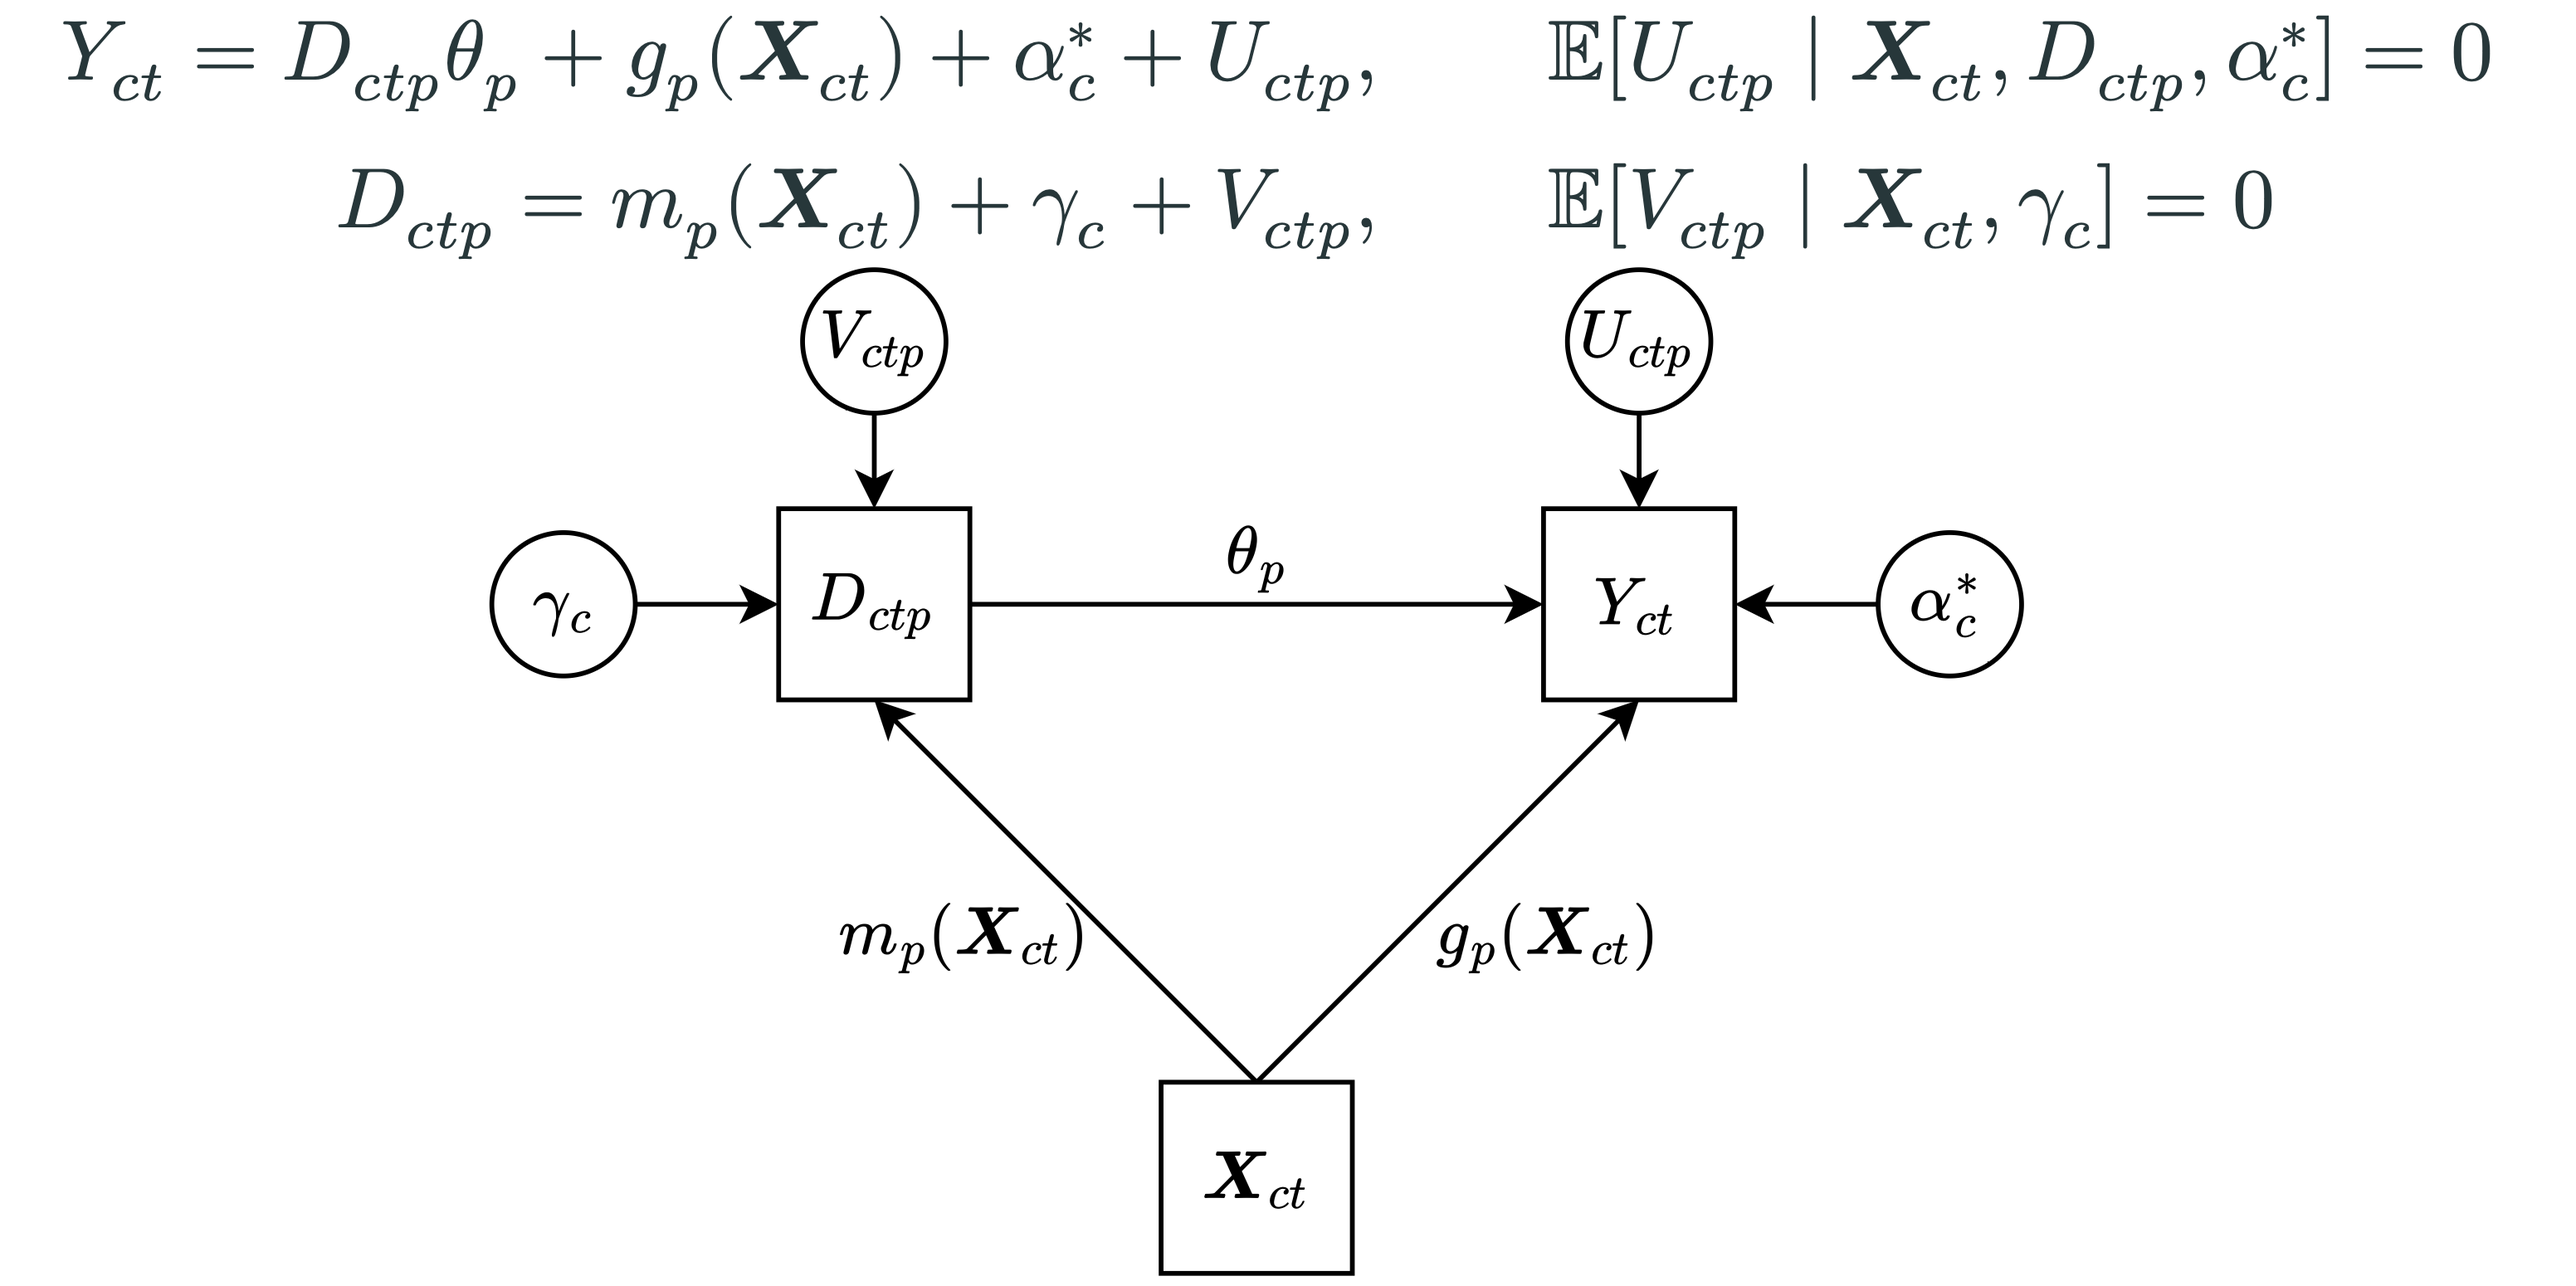
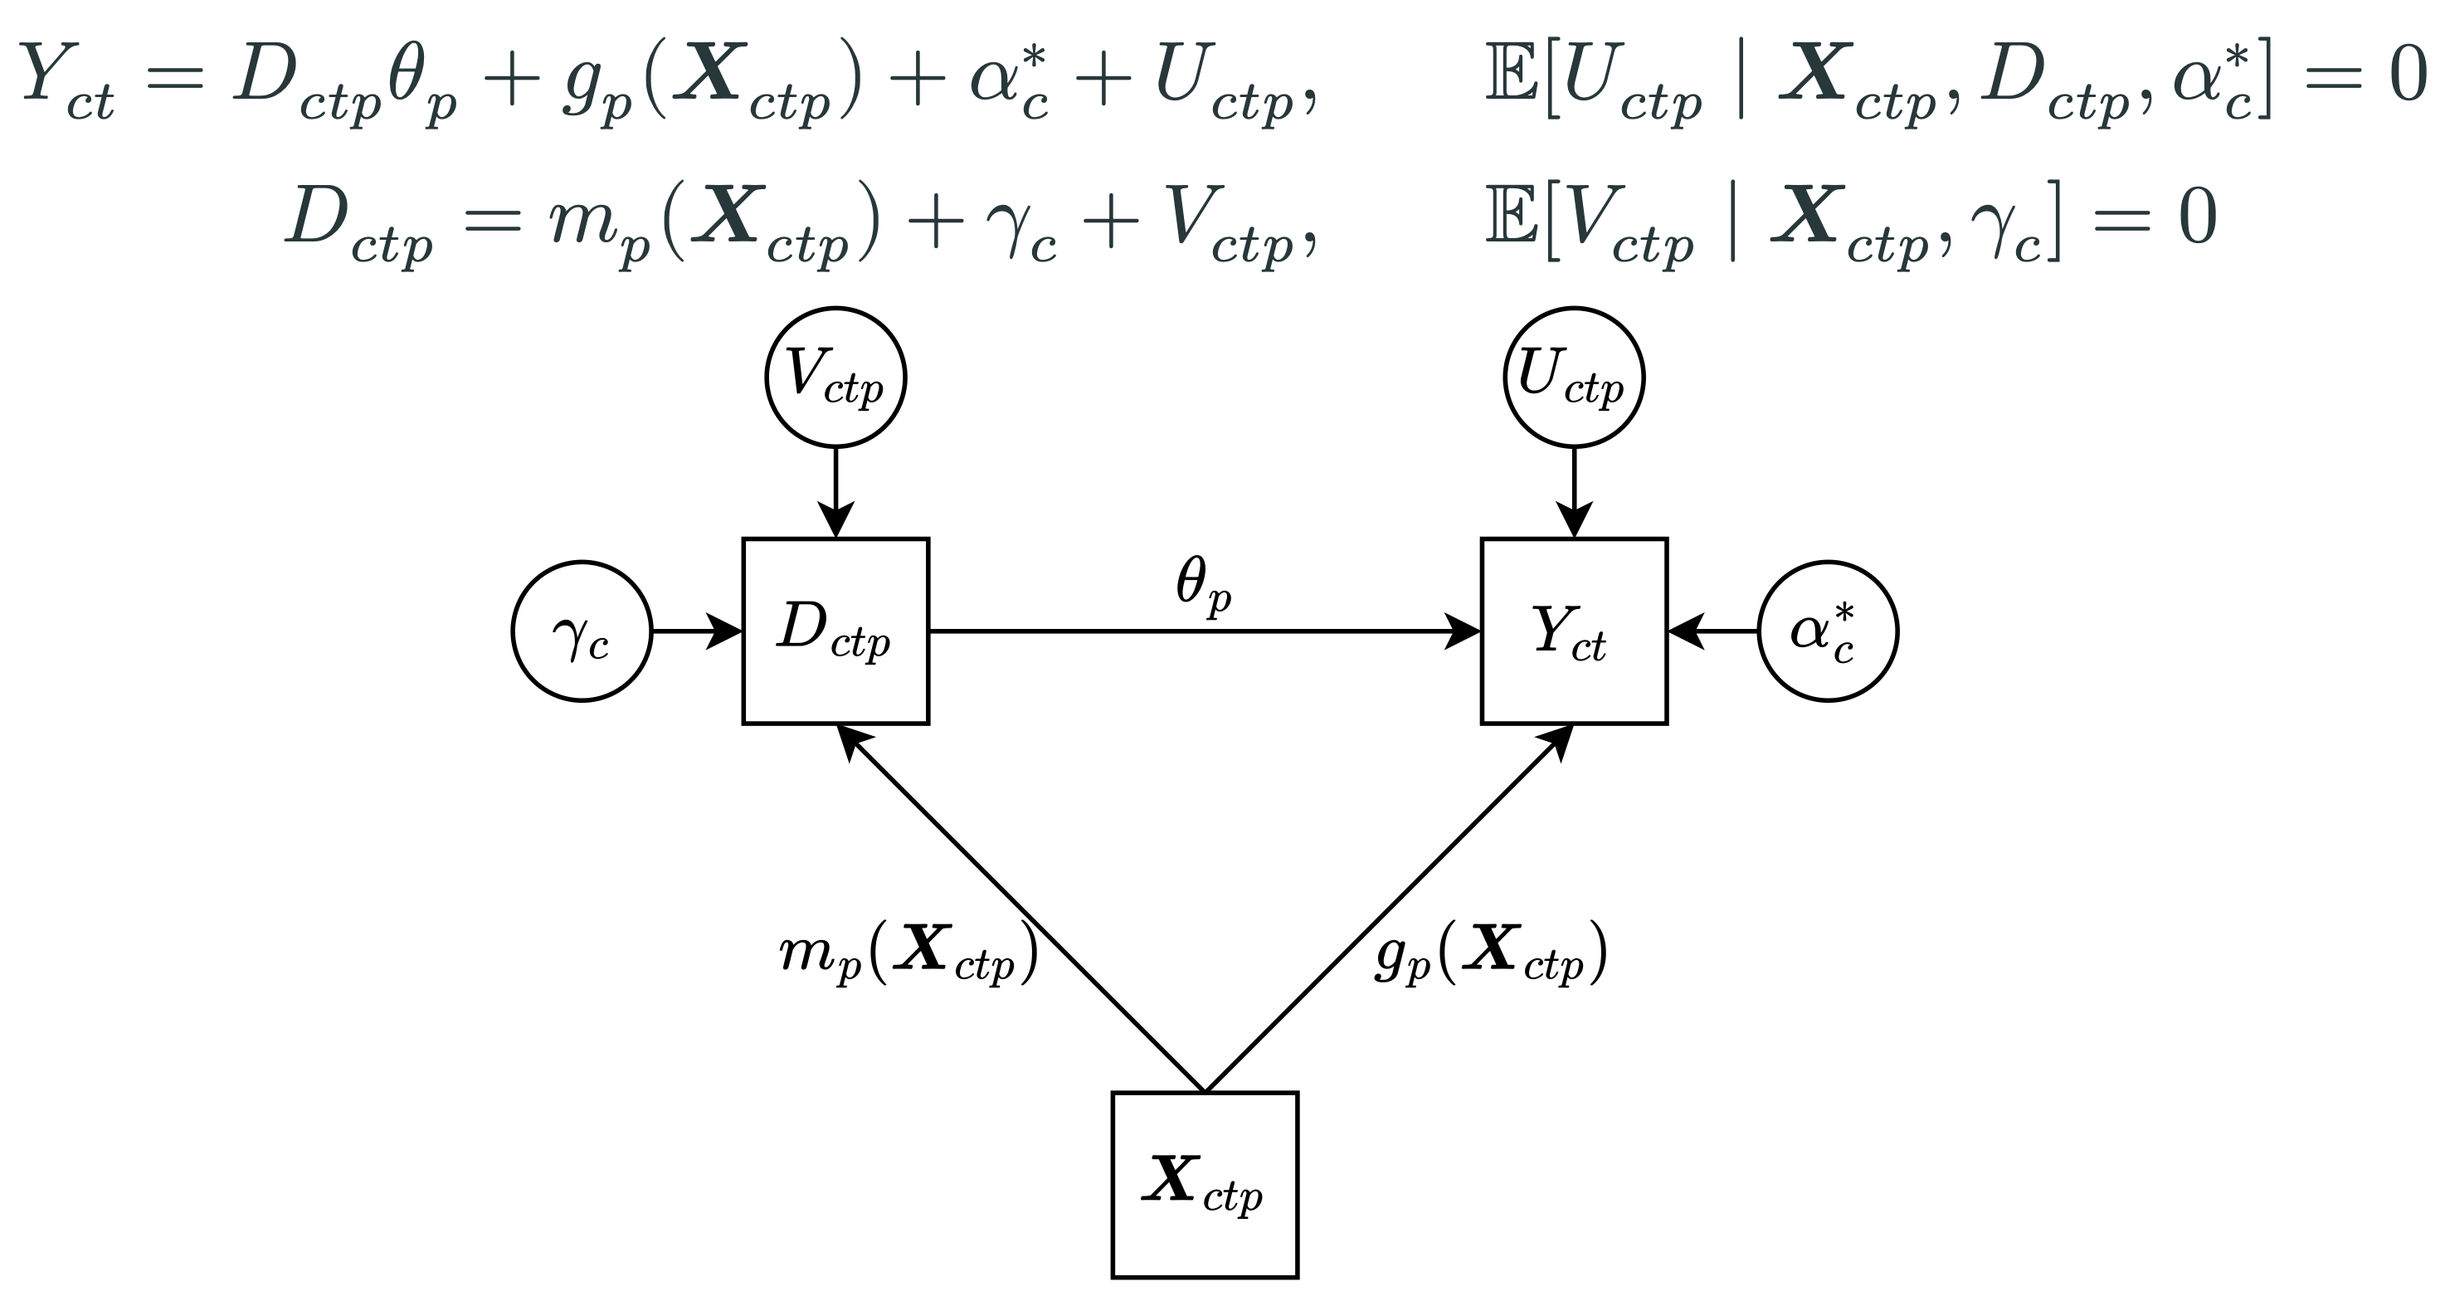
update style and metadata

diff --git a/docs/styles.css b/docs/styles.css
@@ -26,11 +26,11 @@ html {
 /* Dark theme colors */
 [data-theme="dark"] {
     --color-global-bg: oklch(23.64% 0.0045 248);
-    --color-global-text: oklch(83.54% 0 264);
-    --color-link: oklch(70.44% 0.1133 349);
-    --color-accent: #5ff26b; /* TODO: update */
-    --color-accent-2: oklch(94.66% 0 0);
-    --color-quote: oklch(94.8% 0.106 136.49);
+    --color-global-text: #e8eaed;
+    --color-link: #f4f4f4;
+    --color-accent: #8ab4ff;
+    --color-accent-2: #f4f4f4;
+    --color-quote: #f4f4f4; /* mint: #baf0ce */ 
     --color-border: #374151;
     --color-card-bg: rgba(31, 41, 55, 0.8);
     --color-shadow: rgba(0, 0, 0, 0.3);
@@ -438,6 +438,7 @@ body {
 
 #about-content p {
     text-align: justify;
+    /* text-align: left; */
 }
 
 .prose ul, .prose ol {

diff --git a/docs/index.html b/docs/index.html
@@ -4,7 +4,7 @@
     <meta charset="UTF-8">
     <meta name="viewport" content="width=device-width, initial-scale=1.0">
     <title>Quinten De Wettinck - Portfolio</title>
-    <meta name="description" content="DPhil student at Oxford studying Machine Learning and AI Safety">
+    <meta name="description" content="PhD Candidate at KU Leuven studying Economic Complexity and Machine Learning">
     <link rel="icon" type="image/svg+xml" href="assets/favicon.svg">
     <!-- <link rel="icon" type="image/svg+xml" href="assets/favidon.png"> -->
     <link rel="stylesheet" href="styles.css">

diff --git a/docs/talks.md b/docs/talks.md
@@ -7,7 +7,7 @@
     <div class="timeline-header">
       <span class="timeline-org">Conference on Economic Complexity 2026</span>
       <span class="timeline-role">Yildiz Technical University</span>
-      <span class="timeline-dates">08 - 10/07/2026</span>
+      <span class="timeline-dates">08-10 Jul 2026</span>
     </div>
     <div class="timeline-meta">Istanbul, Turkey</div>
     <div class="timeline-desc">Estimating Product-Level Sustainability Impacts from Trade Data Using Double Machine Learning</div>
@@ -18,7 +18,7 @@
     <div class="timeline-header">
       <span class="timeline-org">EconGeo Seminar 2026</span>
       <span class="timeline-role">Utrecht University</span>
-      <span class="timeline-dates">15/04/2026</span>
+      <span class="timeline-dates">15 Apr 2026</span>
     </div>
     <div class="timeline-meta">Utrecht, The Netherlands</div>
     <div class="timeline-desc">Estimating Product-Level Sustainability Impacts from Trade Data Using Double Machine Learning</div>
@@ -29,7 +29,7 @@
     <div class="timeline-header">
       <span class="timeline-org">CEDON Seminar 2026</span>
       <span class="timeline-role">KU Leuven</span>
-      <span class="timeline-dates">19/03/2026</span>
+      <span class="timeline-dates">19 Mar 2026</span>
     </div>
     <div class="timeline-meta">Brussels, Belgium</div>
     <div class="timeline-desc">Estimating Product-Level Sustainability Impacts from Trade Data Using Double Machine Learning</div>
@@ -40,7 +40,7 @@
     <div class="timeline-header">
       <span class="timeline-org">Second Workshop on Economic Complexity, Geography and Innovation</span>
       <span class="timeline-role">Harvard Growth Lab @Harvard Kennedy School</span>
-      <span class="timeline-dates">03/06/2025</span>
+      <span class="timeline-dates">03 Jun 2025</span>
     </div>
     <div class="timeline-meta">Boston, USA</div>
     <div class="timeline-desc">No presentation</div>
@@ -51,7 +51,7 @@
     <div class="timeline-header">
       <span class="timeline-org">Research Visit</span>
       <span class="timeline-role">University of British Columbia</span>
-      <span class="timeline-dates">12/05/2025 - 21/07/2025</span>
+      <span class="timeline-dates">12 May - 21 Jul 2025</span>
     </div>
     <div class="timeline-meta">Kelowna, Canada</div>
     <div class="timeline-desc">Economic Complexity Alignment and Sustainable Development</div>
@@ -62,7 +62,7 @@
     <div class="timeline-header">
       <span class="timeline-org">Louvain-Leuven Trade Seminar 2025</span>
       <span class="timeline-role">KU Leuven & UCLouvain</span>
-      <span class="timeline-dates">12/03/2025</span>
+      <span class="timeline-dates">12 Mar 2025</span>
     </div>
     <div class="timeline-meta">Leuven, Belgium</div>
     <div class="timeline-desc">Identifying Sustainable Diversification Strategies using Economic Complexity Theory</div>
@@ -74,7 +74,7 @@
     <div class="timeline-header">
       <span class="timeline-org">WICK#12 Workshop in Economics of Innovation, Complexity and Knowledge</span>
       <span class="timeline-role">University of Turin</span>
-      <span class="timeline-dates">12 - 13/12/2024</span>
+      <span class="timeline-dates">12-13 Dec 2024</span>
     </div>
     <div class="timeline-meta">Turin, Italy</div>
     <div class="timeline-desc">Identifying Sustainable Diversification Paths using Economic Complexity Theory</div>
@@ -85,7 +85,7 @@
     <div class="timeline-header">
       <span class="timeline-org">European Trade Study Group Conference 2024</span>
       <span class="timeline-role">Athens University of Economics and Business</span>
-      <span class="timeline-dates">12 - 14/09/2024</span>
+      <span class="timeline-dates">12-14 Sep 2024</span>
     </div>
     <div class="timeline-meta">Athens, Greece</div>
     <div class="timeline-desc">Identifying Sustainable Diversification Strategies Using Complexity Economics</div>
@@ -96,7 +96,7 @@
     <div class="timeline-header">
       <span class="timeline-org">Conference on Economic Complexity 2024</span>
       <span class="timeline-role">Corvinus University of Budapest</span>
-      <span class="timeline-dates">10 - 12/07/2024</span>
+      <span class="timeline-dates">10-12 Jul 2024</span>
     </div>
     <div class="timeline-meta">Budapest, Hungary</div>
     <div class="timeline-desc">Identifying Paths Towards Sustainable Development Using Complexity Economics</div>
@@ -107,7 +107,7 @@
     <div class="timeline-header">
       <span class="timeline-org">Summer School on Economic Fitness and Complexity 2023</span>
       <span class="timeline-role">Enrico Fermi Research Institute</span>
-      <span class="timeline-dates">04 - 10/06/2023</span>
+      <span class="timeline-dates">04-10 Jun 2023</span>
     </div>
     <div class="timeline-meta">Rome, Italy</div>
     <!-- <div class="timeline-desc">No presentation</div> -->

diff --git a/docs/publications.md b/docs/publications.md
@@ -80,13 +80,13 @@
 
 <div class="publication-card">
     <div class="publication-image">
-        <a href="https://www-jstor-org.kuleuven.e-bronnen.be/stable/27291360?seq=15" target="_blank" rel="noopener">
+        <a href="https://doi.org/10.11130/jei.2024006" target="_blank" rel="noopener">
             <img src="assets/thesis_hw_map.png" alt="Integration & Inequality">
         </a>
     </div>
     <div class="publication-content">
         <h3 class="publication-title">
-            <a href="https://www-jstor-org.kuleuven.e-bronnen.be/stable/27291360?seq=15" class="publication-link" target="_blank" rel="noopener">
+            <a href="https://doi.org/10.11130/jei.2024006" class="publication-link" target="_blank" rel="noopener">
                 The Impact of Economic Integration on Income Inequality in the EU
             </a>
         </h3>
@@ -96,7 +96,7 @@
         <div class="publication-tags">
             <span class="tag tag-safety">Economic Integration</span>
             <span class="tag tag-safety">Income Inequality</span>
-            <a href="https://www-jstor-org.kuleuven.e-bronnen.be/stable/27291360?seq=15" class="tag tag-arxiv" target="_blank" rel="noopener">JEI</a>
+            <a href="https://doi.org/10.11130/jei.2024006" class="tag tag-arxiv" target="_blank" rel="noopener">JEI</a>
         </div>
     </div>
 </div>

diff --git a/docs/resume.md b/docs/resume.md
@@ -7,7 +7,7 @@
     <div class="timeline-header">
       <span class="timeline-org">PhD in Business Economics</span>
       <span class="timeline-role">KU Leuven</span>
-      <span class="timeline-dates">Oct 2023 - <strong class="text-accent">Present</strong></span>
+      <span class="timeline-dates">Oct 2023 – <strong class="text-accent">Present</strong></span>
     </div>
     <div class="timeline-meta">Brussels, Belgium</div>
     <div class="timeline-desc">Economic Complexity research supervised by Prof.
@@ -54,12 +54,12 @@
     <div class="timeline-header">
       <span class="timeline-org">MSc Business Administration</span>
       <span class="timeline-role">KU Leuven</span>
-      <span class="timeline-dates">Sep 2020 - Jul 2022</span>
+      <span class="timeline-dates">Sep 2020 – Jul 2022</span>
     </div>
     <div class="timeline-meta">Brussels, Belgium</div>
     <div class="timeline-desc">Master's thesis: The Impact of Economic Integration on Income Inequality in the EU</div>
   </div>
 </div>
 
-<!-- <br>
-Full cv: [coming soon] -->
+<br>
+Full cv: [coming soon]
